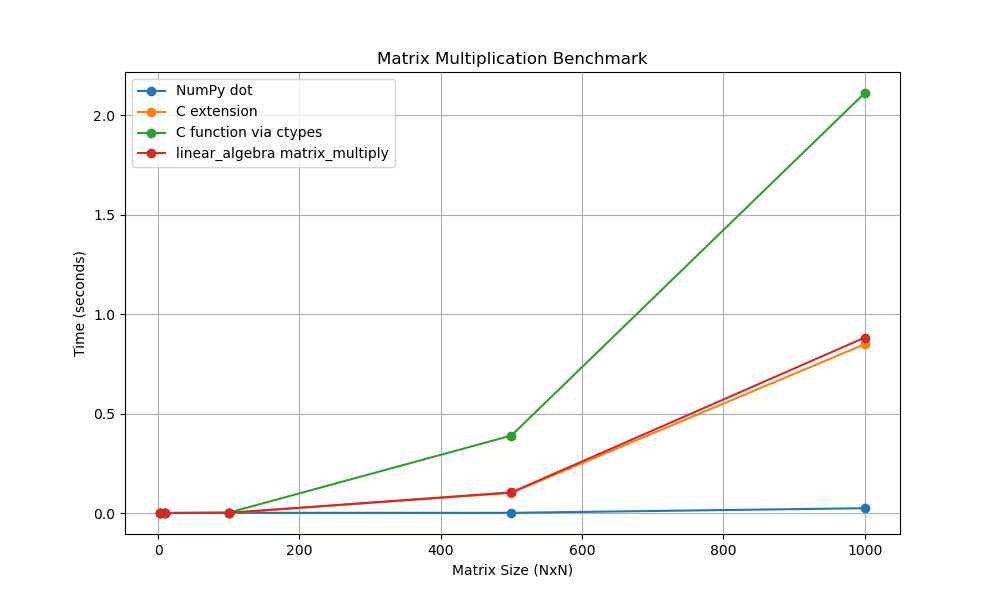
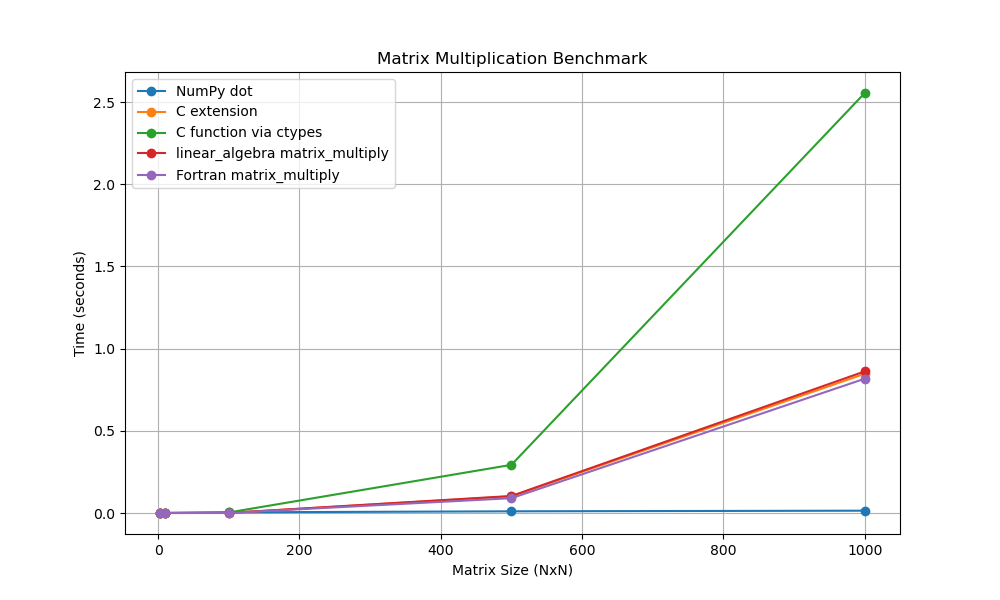
first fix of align method using initialization and production modes

diff --git a/src/python/extensions/matrix_math/evaluate_matrix_multiply/bench.py b/src/python/extensions/matrix_math/evaluate_matrix_multiply/bench.py
@@ -4,6 +4,7 @@ import matrix_math
 import matplotlib.pyplot as plt
 import ctypes
 from sasmol.linear_algebra import matrix_multiply as linear_algebra_matrix_multiply  # Import the C extension method
+import fmatrix_math  # Import the Fortran matrix multiplication module
 
 # Load the shared library
 lib = ctypes.CDLL('./matrix_multiply.so')
@@ -53,8 +54,16 @@ def benchmark_and_compare(size):
     time4 = end_time - start_time
     print(f"linear_algebra matrix_multiply time: {time4:.6f} seconds")
 
+    # Benchmark the fifth implementation (Fortran matrix_multiply)
+    start_time = time.time()
+    result5 = fmatrix_math.matrix_multiply(a, b)
+    end_time = time.time()
+    time5 = end_time - start_time
+    print(f"Fortran matrix_multiply time: {time5:.6f} seconds")
+
     # Compare the numerical results
-    if np.allclose(result1, result2, atol=1e-6) and np.allclose(result1, result3, atol=1e-6) and np.allclose(result1, result4, atol=1e-6):
+    if (np.allclose(result1, result2, atol=1e-6) and np.allclose(result1, result3, atol=1e-6) and
+        np.allclose(result1, result4, atol=1e-6) and np.allclose(result1, result5, atol=1e-6)):
         print("Results are numerically close.")
     else:
         print("Results differ.")
@@ -64,17 +73,19 @@ def benchmark_and_compare(size):
     trace2 = np.trace(result2)
     trace3 = np.trace(result3)
     trace4 = np.trace(result4)
-    print(f"Trace comparison: NumPy={trace1}, C extension={trace2}, C function via ctypes={trace3}, linear_algebra={trace4}")
+    trace5 = np.trace(result5)
+    print(f"Trace comparison: NumPy={trace1}, C extension={trace2}, C function via ctypes={trace3}, linear_algebra={trace4}, Fortran={trace5}")
 
     # Calculate and compare the Frobenius norm of the matrices
     norm1 = np.linalg.norm(result1)
     norm2 = np.linalg.norm(result2)
     norm3 = np.linalg.norm(result3)
     norm4 = np.linalg.norm(result4)
-    print(f"Frobenius norm comparison: NumPy={norm1}, C extension={norm2}, C function via ctypes={norm3}, linear_algebra={norm4}")
+    norm5 = np.linalg.norm(result5)
+    print(f"Frobenius norm comparison: NumPy={norm1}, C extension={norm2}, C function via ctypes={norm3}, linear_algebra={norm4}, Fortran={norm5}")
 
     # Plot the numerical differences
-    fig, axs = plt.subplots(1, 4, figsize=(20, 5))
+    fig, axs = plt.subplots(1, 5, figsize=(25, 5))
     fig.suptitle(f'Matrix Multiplication Results for {size}x{size}')
     im = axs[0].imshow(result1, cmap='viridis')
     axs[0].set_title('NumPy dot result')
@@ -88,12 +99,15 @@ def benchmark_and_compare(size):
     im = axs[3].imshow(result4, cmap='viridis')
     axs[3].set_title('linear_algebra result')
     fig.colorbar(im, ax=axs[3])
+    im = axs[4].imshow(result5, cmap='viridis')
+    axs[4].set_title('Fortran result')
+    fig.colorbar(im, ax=axs[4])
     plt.tight_layout(rect=[0, 0.03, 1, 0.95])
     plt.savefig(f'matrix_results_{size}x{size}.png')
     plt.close()
 
     # Comment out the parts that plot the differences
-    # fig, axs = plt.subplots(1, 3, figsize=(15, 5))
+    # fig, axs = plt.subplots(1, 4, figsize=(20, 5))
     # fig.suptitle(f'Differences in Matrix Multiplication Results for {size}x{size}')
     # im = axs[0].imshow(result1 - result2, cmap='viridis')
     # axs[0].set_title('Difference (NumPy - C extension)')
@@ -104,6 +118,9 @@ def benchmark_and_compare(size):
     # im = axs[2].imshow(result1 - result4, cmap='viridis')
     # axs[2].set_title('Difference (NumPy - linear_algebra)')
     # fig.colorbar(im, ax=axs[2])
+    # im = axs[3].imshow(result1 - result5, cmap='viridis')
+    # axs[3].set_title('Difference (NumPy - Fortran)')
+    # fig.colorbar(im, ax=axs[3])
     # plt.tight_layout(rect=[0, 0.03, 1, 0.95])
     # plt.show()
 
@@ -111,8 +128,9 @@ def benchmark_and_compare(size):
     print("C extension result:\n", result2)
     print("C function via ctypes result:\n", result3)
     print("linear_algebra matrix_multiply result:\n", result4)
+    print("Fortran matrix_multiply result:\n", result5)
 
-    return time1, time2, time3, time4, trace1, trace2, trace3, trace4, norm1, norm2, norm3, norm4
+    return time1, time2, time3, time4, time5, trace1, trace2, trace3, trace4, trace5, norm1, norm2, norm3, norm4, norm5
 
 # List of matrix sizes to benchmark
 sizes = [3, 10, 100, 500, 1000]
@@ -122,6 +140,7 @@ numpy_times = []
 c_extension_times = []
 c_function_times = []
 linear_algebra_times = []
+fortran_times = []
 
 # Lists to store trace and norm results
 trace_results = []
@@ -129,13 +148,14 @@ norm_results = []
 
 # Run the benchmark for each size
 for size in sizes:
-    time1, time2, time3, time4, trace1, trace2, trace3, trace4, norm1, norm2, norm3, norm4 = benchmark_and_compare(size)
+    time1, time2, time3, time4, time5, trace1, trace2, trace3, trace4, trace5, norm1, norm2, norm3, norm4, norm5 = benchmark_and_compare(size)
     numpy_times.append(time1)
     c_extension_times.append(time2)
     c_function_times.append(time3)
     linear_algebra_times.append(time4)
-    trace_results.append((trace1, trace2, trace3, trace4))
-    norm_results.append((norm1, norm2, norm3, norm4))
+    fortran_times.append(time5)
+    trace_results.append((trace1, trace2, trace3, trace4, trace5))
+    norm_results.append((norm1, norm2, norm3, norm4, norm5))
 
 # Plot the timing results
 plt.figure(figsize=(10, 6))
@@ -143,6 +163,7 @@ plt.plot(sizes, numpy_times, label='NumPy dot', marker='o')
 plt.plot(sizes, c_extension_times, label='C extension', marker='o')
 plt.plot(sizes, c_function_times, label='C function via ctypes', marker='o')
 plt.plot(sizes, linear_algebra_times, label='linear_algebra matrix_multiply', marker='o')
+plt.plot(sizes, fortran_times, label='Fortran matrix_multiply', marker='o')
 plt.xlabel('Matrix Size (NxN)')
 plt.ylabel('Time (seconds)')
 plt.title('Matrix Multiplication Benchmark')
@@ -154,10 +175,10 @@ plt.close()
 # Summarize trace and norm comparisons
 print("\nTrace Comparison Summary:")
 for i, size in enumerate(sizes):
-    trace1, trace2, trace3, trace4 = trace_results[i]
-    print(f"Size {size}x{size}: NumPy={trace1}, C extension={trace2}, C function via ctypes={trace3}, linear_algebra={trace4}")
+    trace1, trace2, trace3, trace4, trace5 = trace_results[i]
+    print(f"Size {size}x{size}: NumPy={trace1}, C extension={trace2}, C function via ctypes={trace3}, linear_algebra={trace4}, Fortran={trace5}")
 
 print("\nFrobenius Norm Comparison Summary:")
 for i, size in enumerate(sizes):
-    norm1, norm2, norm3, norm4 = norm_results[i]
-    print(f"Size {size}x{size}: NumPy={norm1}, C extension={norm2}, C function via ctypes={norm3}, linear_algebra={norm4}")
+    norm1, norm2, norm3, norm4, norm5 = norm_results[i]
+    print(f"Size {size}x{size}: NumPy={norm1}, C extension={norm2}, C function via ctypes={norm3}, linear_algebra={norm4}, Fortran={norm5}")

diff --git a/src/python/operate.py b/src/python/operate.py
@@ -321,12 +321,10 @@ class Move():
 
             # Return initialization data as align_variables
             align_variables = {
-                'other_mask': other_mask,
                 'self_mask': self_mask,
-                'com_subset_other': com_subset_other,
+                'subset_self': subset_self,
                 'coor_subset_other': coor_subset_other,
-                'com_subset_self': com_subset_self,
-                'coor_subset_self': coor_subset_self
+                'com_subset_other': com_subset_other,
             }
 
             return align_variables
@@ -335,13 +333,26 @@ class Move():
             if align_variables is None:
                 raise ValueError("align_variables must be provided in production mode")
 
+            # assign initialization data to variables
+
+            frame = 0
+
             com_subset_other = align_variables['com_subset_other']
             coor_subset_other = align_variables['coor_subset_other']
-            com_subset_self = align_variables['com_subset_self']
-            coor_subset_self = align_variables['coor_subset_self']
-    
-            u = linear_algebra.find_u(coor_subset_self, coor_subset_other)
-            tao = numpy.transpose(self.coor()[frame] - com_subset_other)
+
+            self_mask = align_variables['self_mask']
+            subset_self = align_variables['subset_self']
+
+            # update self object to current state
+            error = self.copy_molecule_using_mask(subset_self, self_mask, frame)
+            com_subset_self = subset_self.calculate_center_of_mass(frame)
+            subset_self.center(frame)
+            coor_subset_self = subset_self.coor()[frame]
+
+            #u = linear_algebra.find_u(coor_subset_self, coor_subset_other)
+            u = linear_algebra.find_u(coor_subset_other, coor_subset_self)
+            print('u = ', u)
+            tao = numpy.transpose(self.coor()[frame] - com_subset_self)
             error, nat2 = linear_algebra.matrix_multiply(u, tao)
             ncoor = numpy.transpose(nat2) + com_subset_other
             self._coor[frame, :] = ncoor
@@ -521,86 +532,6 @@ class Move():
 
         return
 
-    def initialize_subsets(self, other, self_basis, other_basis, frame=0):
-        """
-        Initialize the subsets for self and other based on the given basis.
-
-        Parameters
-        ----------
-        other : Molecule
-            The reference molecule.
-        self_basis : str
-            The basis for the self molecule.
-        other_basis : str
-            The basis for the other molecule.
-        frame : int, optional
-            The trajectory frame number to use (default is 0).
-
-        Returns
-        -------
-        tuple
-            A tuple containing the subsets for self and other.
-        """
-        # Initialize subset for other (molecule_1)
-        error, other_mask = other.get_subset_mask(other_basis)
-        subset_other = sasmol.system.Molecule()
-        error = other.copy_molecule_using_mask(subset_other, other_mask, frame)
-        subset_other.center(frame)
-
-        # Initialize subset for self (molecule_2)
-        error, self_mask = self.get_subset_mask(self_basis)
-        subset_self = sasmol.system.Molecule()
-        error = self.copy_molecule_using_mask(subset_self, self_mask, frame)
-        subset_self.center(frame)
-
-        return subset_self, subset_other
-
-    def align_trajectory(self, other, self_basis, other_basis, subset_self=None, subset_other=None, frame=0, **kwargs):
-        """
-        Alignment of one object on top of another.
-
-        this is a stub for the align method for trajectory frames
-
-        Parameters
-        ----------
-        other : Molecule
-            The reference molecule.
-        self_basis : str
-            The basis for the self molecule.
-        other_basis : str
-            The basis for the other molecule.
-        subset_self : Molecule, optional
-            Precomputed subset for self (default is None).
-        subset_other : Molecule, optional
-            Precomputed subset for other (default is None).
-        frame : int, optional
-            The trajectory frame number to use (default is 0).
-
-        Returns
-        -------
-        None
-            Updated self._coor.
-        """
-        if subset_self is None or subset_other is None:
-            subset_self, subset_other = self.initialize_subsets(other, self_basis, other_basis, frame)
-
-        com_subset_other = subset_other.calculate_center_of_mass(frame)
-        coor_subset_other = subset_other.coor()[frame]
-
-        com_subset_self = subset_self.calculate_center_of_mass(frame)
-
-
-        u = linear_algebra.find_u(coor_subset_self, coor_subset_other)
-
-        tao = numpy.transpose(self.coor()[frame] - com_subset_other)
-
-        error, nat2 = linear_algebra.matrix_multiply(u, tao)
-
-        ncoor = numpy.transpose(nat2) + com_subset_other
-
-        self._coor[frame, :] = ncoor
-
-        return
 
     def rotate(self, frame, axis, theta, **kwargs):
         '''

diff --git a/src/python/test_sasmol/test_operate/test_intg_operate_Move_align.py b/src/python/test_sasmol/test_operate/test_intg_operate_Move_align.py
@@ -56,38 +56,35 @@ class Test_intg_operate_Move_align(unittest.TestCase):
         rotate the second molecule and 
         set a basis then align the second molecule on the first molecule
         '''
+        frame = 0
 
         print(DataPath + '1CRN.pdb')
 
         self.o1.read_pdb(DataPath + '1CRN.pdb')
         self.o2.read_pdb(DataPath + '1CRN.pdb')
         
-        axis = 'z'
-        frame = 0
-        theta = numpy.pi / 2.0
-        
         self.o2.write_pdb("test.pdb", frame, "w")
 
-        self.o2.rotate(frame, axis, theta)
-
-        self.o2.write_pdb("test_rotated.pdb", frame, "w")
-      
         basis_1 = 'name[i] == "CA" and (resid[i] >= 20 and resid[i] <= 31)'
         basis_2 = 'name[i] == "CA" and (resid[i] >= 20 and resid[i] <= 31)'
 
         # Initialization mode
         align_variables = self.o2.align(self.o1, basis_1, basis_2, mode='initialization')
 
+        axis = 'z'
+        theta = numpy.pi / 2.0
+
+        self.o2.rotate(frame, axis, theta)
+        self.o2.write_pdb("test_rotated.pdb", frame, "w")
+      
         # Production mode
         self.o2.align(self.o1, align_variables=align_variables)
 
         expected_com = self.o1.calculate_center_of_mass(frame)
         result_com = self.o2.calculate_center_of_mass(frame)
 
-        print('expected_com : calculated = ', expected_com)
-        print('result_com : of aligned mol', result_com)
-
-        expected_com = numpy.array([10.21108263, -9.38440245,  6.97775639], dtype=floattype)
+        #print('expected_com : calculated = ', expected_com)
+        #print('result_com : of aligned mol', result_com)
 
         self.o2.write_pdb("test_rotated_then_aligned.pdb", frame, "w")
 

diff --git a/src/python/extensions/matrix_math/evaluate_matrix_multiply/setup_fortran_mm.py b/src/python/extensions/matrix_math/evaluate_matrix_multiply/setup_fortran_mm.py
@@ -1,0 +1,17 @@
+from numpy.distutils.core import setup, Extension
+
+matrix_math_module = Extension(
+    name='fmatrix_math',
+    sources=['matrix_math.f'],  # Use a relative path to the local folder
+    language='f77'  # Specify the Fortran language
+)
+
+setup(
+    name='fmatrix_math',
+    version='1.0',
+    description='Matrix multiplication module',
+    ext_modules=[matrix_math_module],
+)
+
+
+# python setup_fortran_mm.py build_ext --inplace
